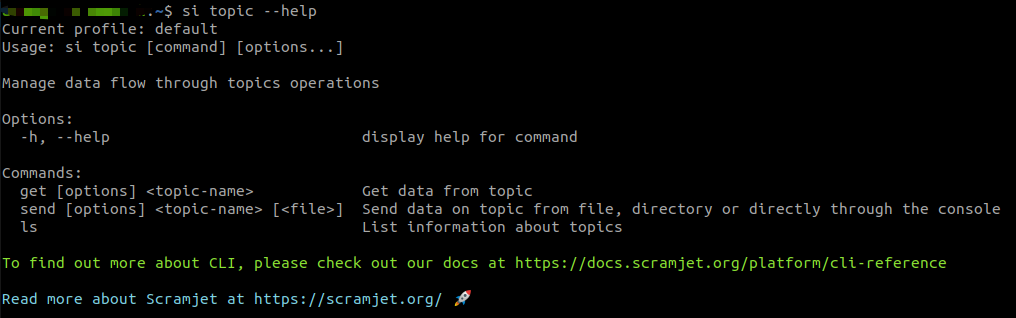
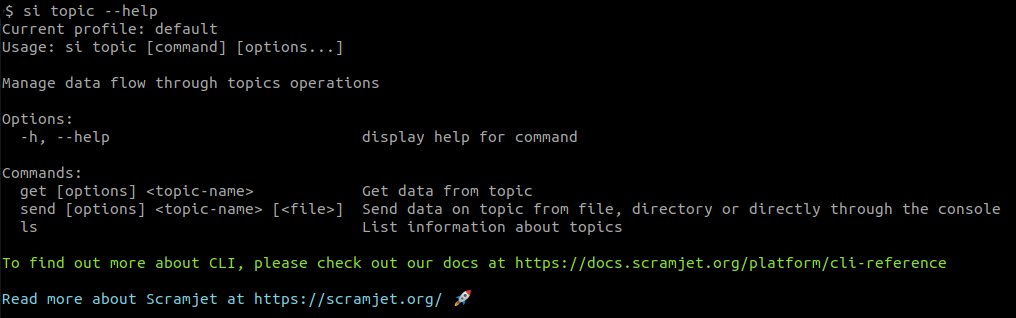
Replace screen shots for topics CLI

Changed region(s): [[0.0, 0.0, 0.3356, 0.0566]]

diff --git a/topics/README.md b/topics/README.md
@@ -219,7 +219,7 @@ If you wish to check the data format required by the topic you can list the topi
 si topic ls
 ```
 
-![listtopics](../images/si-topic-ls.png)
+![listtopics](../images/si-output-override-ls.png)
 
 If you use [Scramjet CLI](https://www.npmjs.com/package/@scramjet/cli) to send data to a topic, you can use ```-t``` option to indicate the topic data format.
 For example, to send data to topic named ```topicTestName``` expecting data in format ```application/x-ndjson```:
